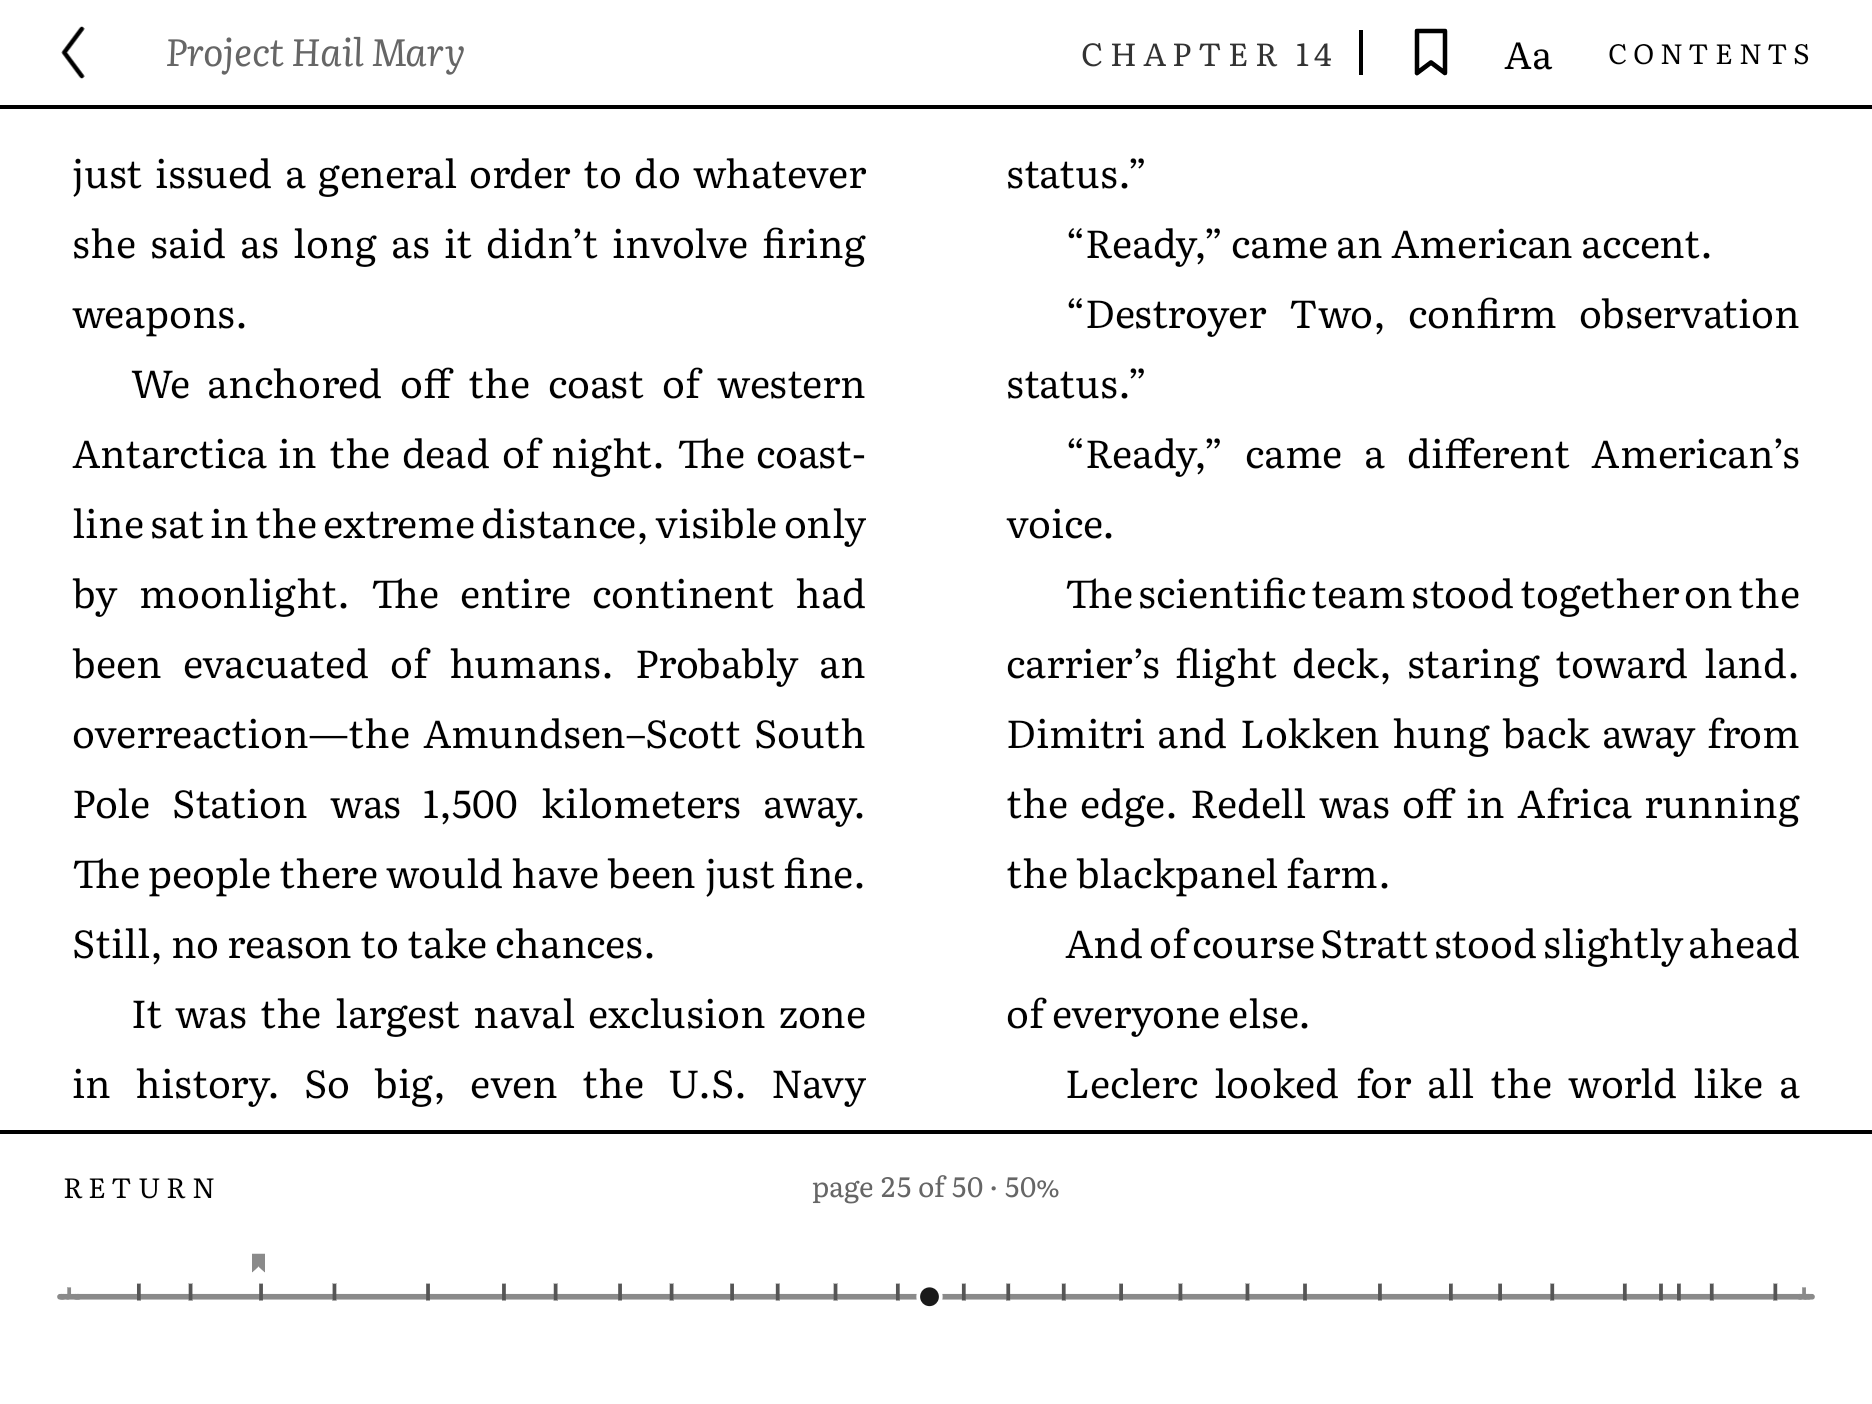
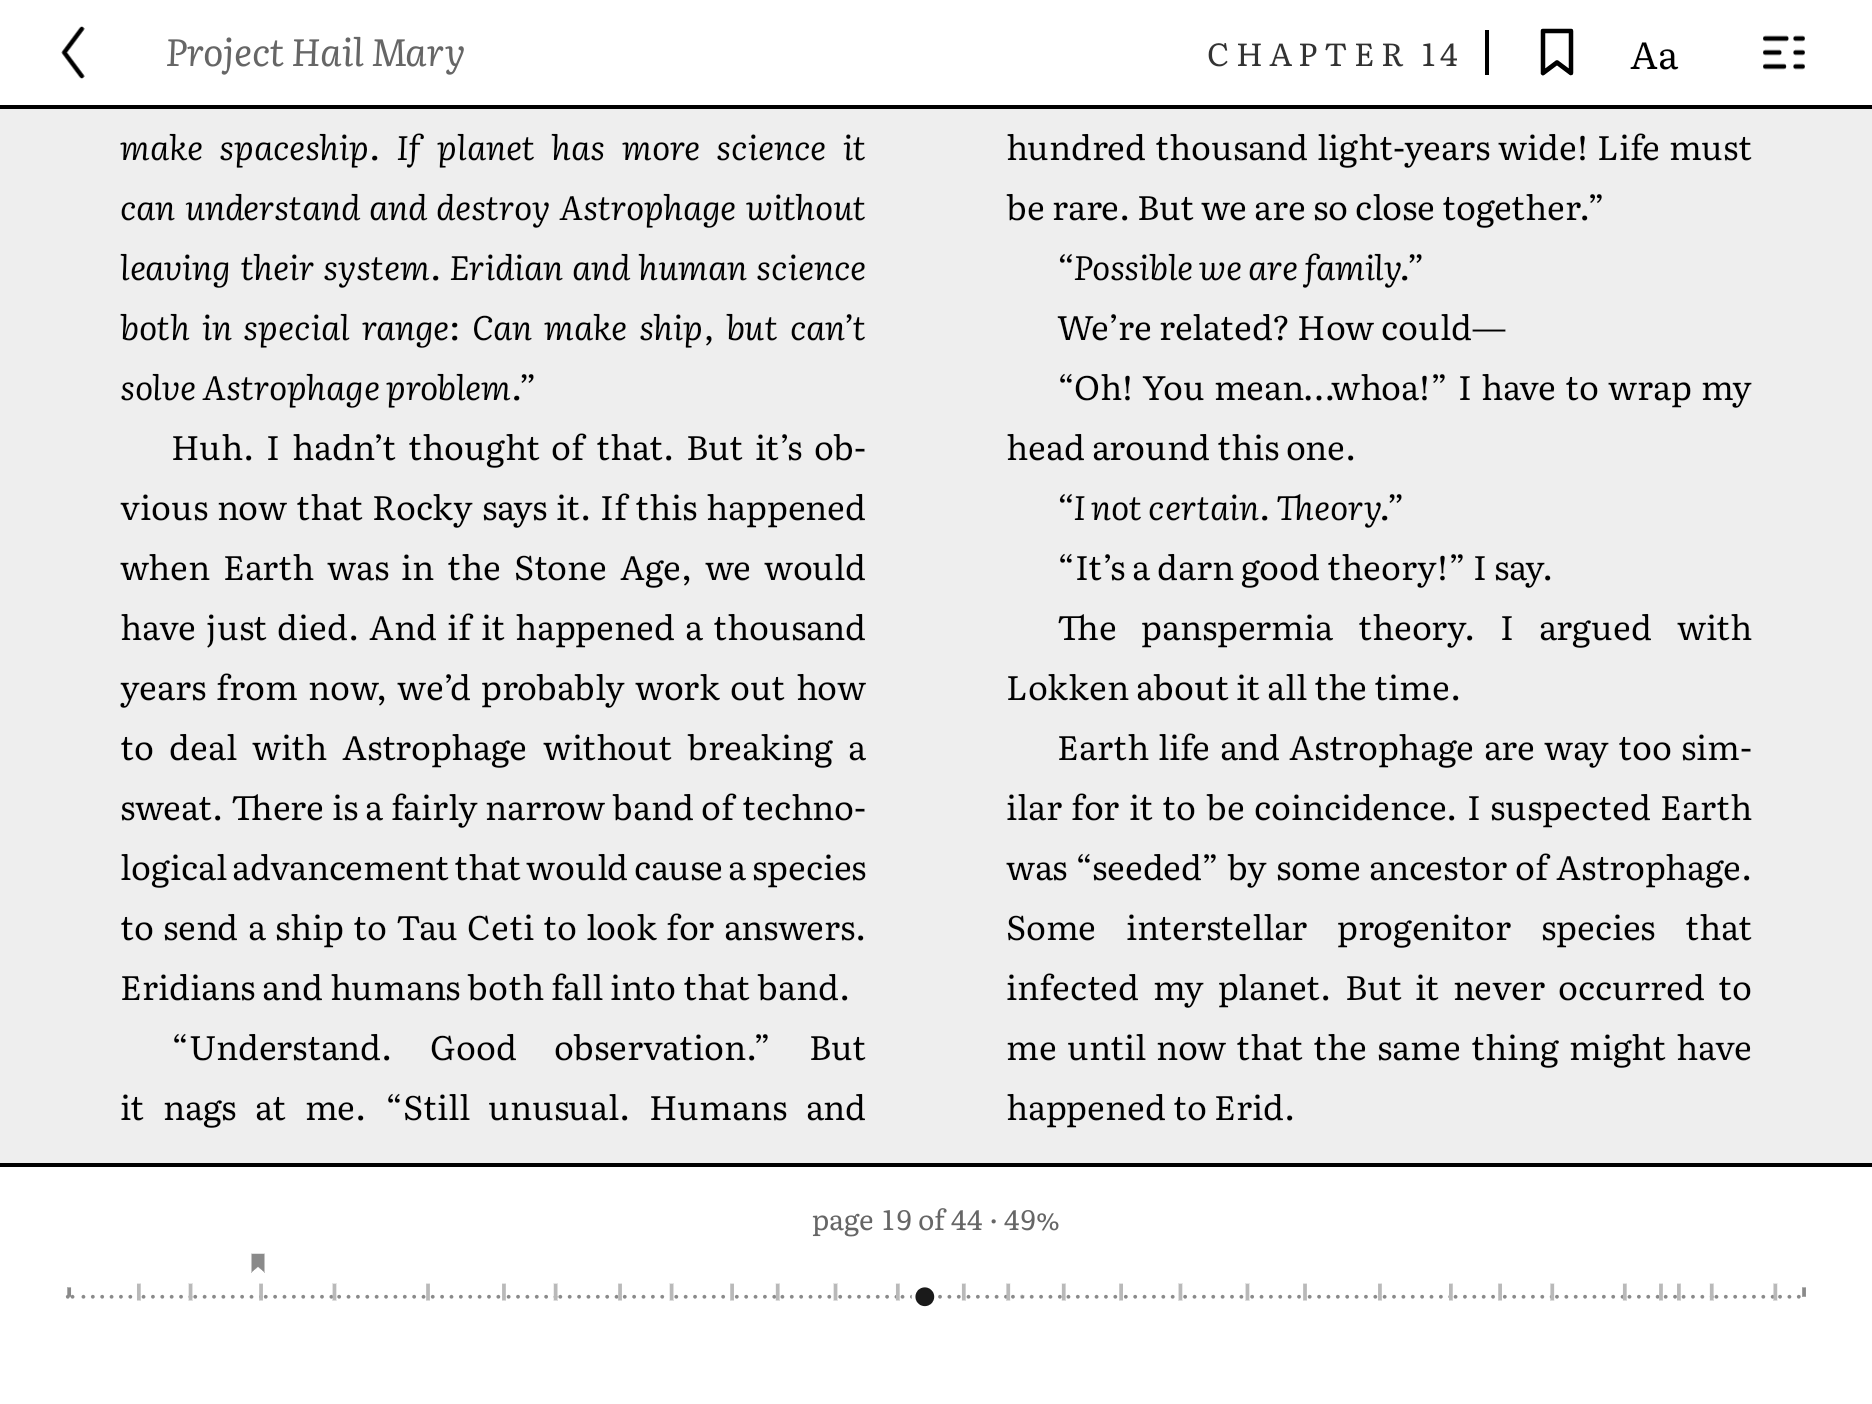
docs: the README shows the chrome as it is now
Four of the nine shots were taken before the chrome changed: the contents
control is a drawn mark rather than a word, and the page steps back a level
while the chrome is over it. Retaken on the panel — the toolbar, the Aa sheet,
a scrub in flight, and landscape — with their alt text corrected to match, and
a paragraph on the shade beside the toolbar shot.

The launcher icon is the new one, rendered through the mask the device
actually applies rather than as a bare square.

The contents panel and the three library shots were unaffected and are
untouched.

diff --git a/README.md b/README.md
@@ -1,5 +1,5 @@
 <p align="center">
-  <img src="docs/screenshots/icon.png" width="96" alt="Reader app icon: a page with a bound edge">
+  <img src="docs/screenshots/icon.png" width="96" alt="Reader app icon: the tablet drawn in black on white as a plain bezel, a serif capital R filling its screen, the pen docked at the right">
 </p>
 
 <h1 align="center">Reader</h1>
@@ -108,7 +108,7 @@ Forward is the largest of the three, so reading is one unhurried tap after anoth
 ### Turning it sideways
 
 <p align="center">
-  <img src="docs/screenshots/07-landscape.png" width="580" alt="Landscape: the chapter as two side-by-side columns with a gutter, the chrome folded to a single row with the chapter beside the controls, and the foot reading page 25 of 50">
+  <img src="docs/screenshots/07-landscape.png" width="580" alt="Landscape: the chapter as two side-by-side columns with a gutter, the chrome folded to a single row with the chapter beside the controls, and the foot reading page 19 of 44">
 </p>
 
 Rotate the tablet and the page becomes two columns with a gutter between them. One column across a
@@ -130,7 +130,7 @@ settings screens stay upright either way.
 ### The toolbar
 
 <p align="center">
-  <img src="docs/screenshots/03-toolbar.png" width="580" alt="The reading chrome: the way out, the book's title, a mark ribbon, Aa and CONTENTS on the first row; the chapter centred as a running head on the second; below the page, a readout and the chapter timeline">
+  <img src="docs/screenshots/03-toolbar.png" width="580" alt="The reading chrome: the way out, the book's title, then a mark ribbon, Aa and a drawn contents mark on the first row; the chapter centred as a running head on the second; below the page, a readout and the chapter timeline. The page between the two bars sits a shade darker than they do">
 </p>
 
 The chrome is two rows. The first is the book you are in and everything you can do about it: a
@@ -138,6 +138,11 @@ The chrome is two rows. The first is the book you are in and everything you can 
 **Contents**. The second is a running head carrying the chapter, centred, where a printed page
 puts it — and standing down on a chapter opener, because the page below is already carrying its
 own heading.
+
+While the chrome is up, the page steps back by one level of the sixteen this display can hold — the
+smallest change it can make without dithering. The bars are paper and the page was paper too, so
+nothing said which of the two you were meant to touch. Only the ground moves; the words are still
+black, and still readable at a glance.
 
 The ribbon is the one control here whose look is a fact rather than a door: outlined when the page
 you are on is unmarked, filled when it is. Tap it to mark the page in place, without leaving what
@@ -176,7 +181,7 @@ chapter numbers.
 ### Skimming the whole book
 
 <p align="center">
-  <img src="docs/screenshots/06-scrubbing.png" width="580" alt="Mid-scrub: a floating window previews the destination page under a reversed caption bar reading CHAPTER 14 · 49%, while the timeline's thumb sits under the finger">
+  <img src="docs/screenshots/06-scrubbing.png" width="580" alt="Mid-scrub: a floating window previews the destination page under a reversed caption bar reading CHAPTER 19 · 64%, while the timeline's thumb sits under the finger">
 </p>
 
 The timeline along the bottom of the toolbar has a tick for every chapter. Drag it and a floating
@@ -189,7 +194,7 @@ to chapter starts like a detent, bookmarks sit on the track as small glyphs, and
 ### How the page looks
 
 <p align="center">
-  <img src="docs/screenshots/04-settings.png" width="580" alt="Aa: a sheet across the foot of the screen with the book still showing above it, three tabs reading TEXT, PAGE and SCREEN, and the face, size and spacing each set as a row of cells">
+  <img src="docs/screenshots/04-settings.png" width="580" alt="Aa: a sheet across the foot of the screen with the book still showing, a shade darker, above it; three tabs reading TEXT, PAGE and SCREEN, and the face, size and spacing each set as a row of cells">
 </p>
 
 **Aa** opens a sheet across the bottom of the screen, with your book still showing above it, behind
